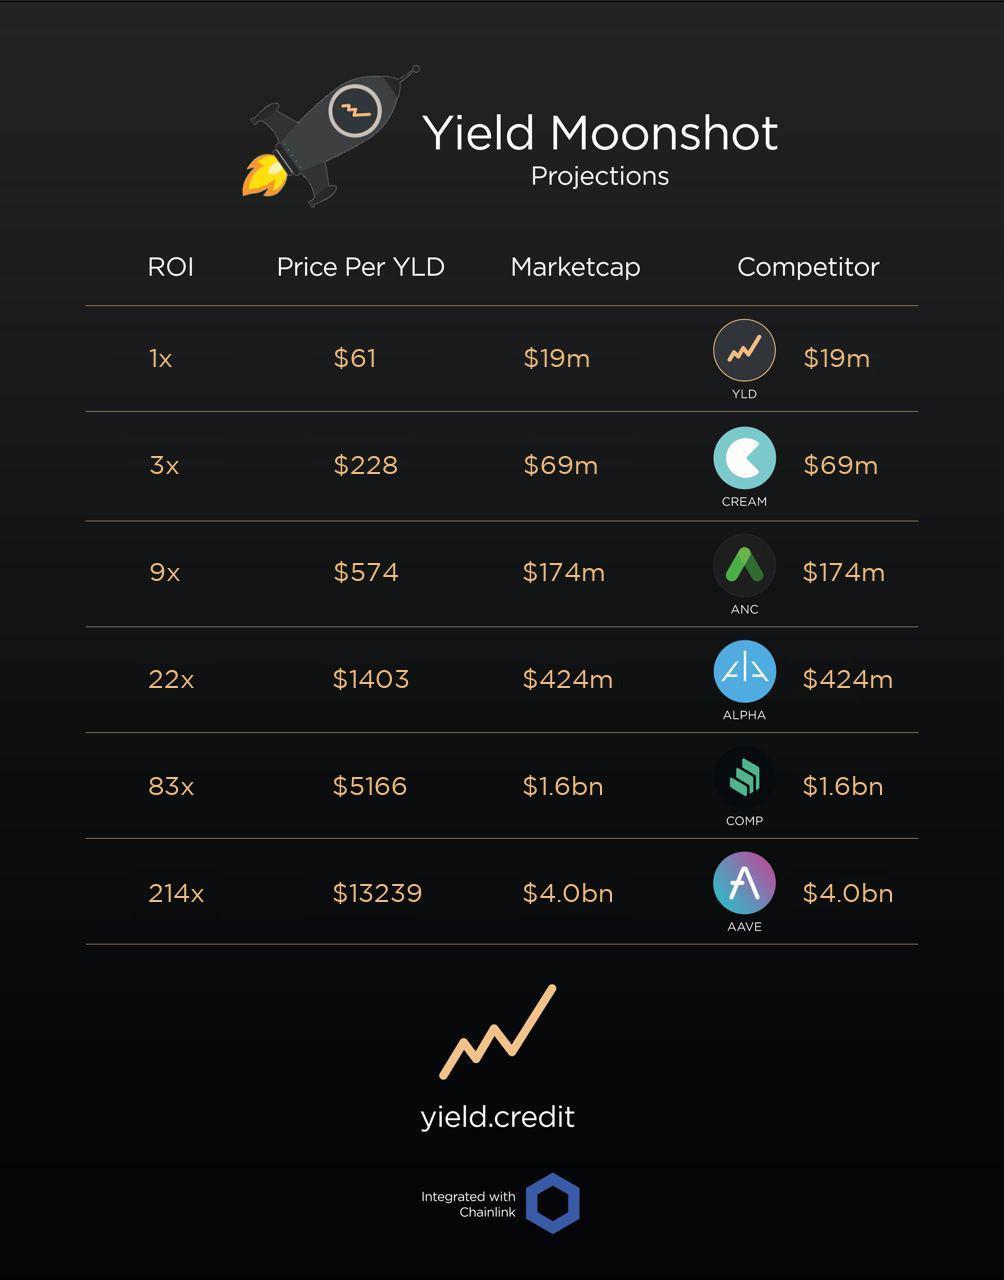
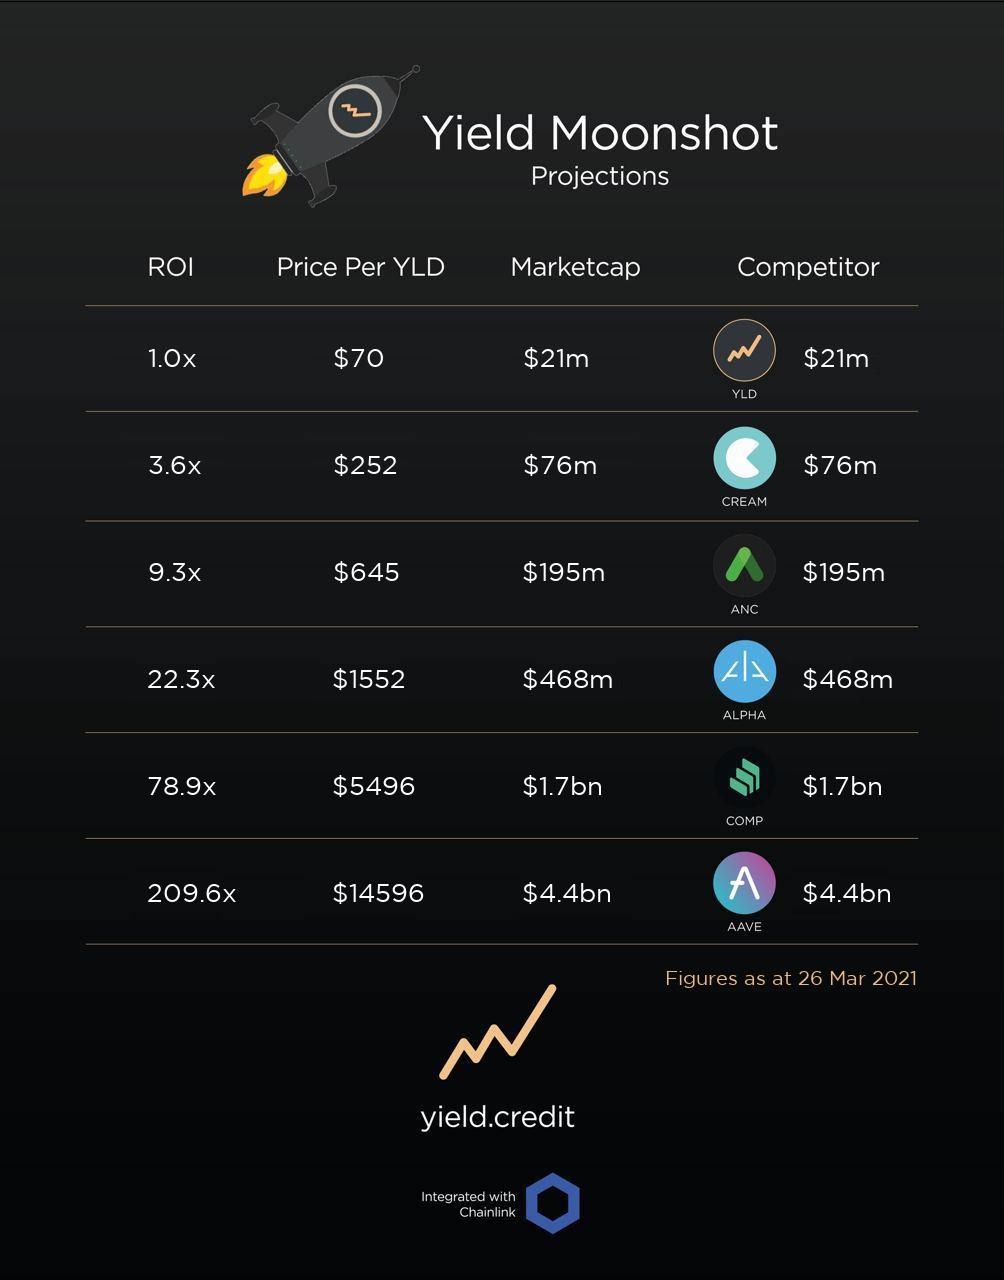
Removed an issue caused by flooring instead of rounding.

diff --git a/imageManipulation.py b/imageManipulation.py
@@ -115,84 +115,84 @@ def updatePic():
                     circSupply, font=myFont, fill=extrasDict[pic]['color'])
             img.save(pic)
 
-def draw_moon_pic():
+    def draw_moon_pic():
 
-        moon_metrics = get_moon_metrics()
+            moon_metrics = get_moon_metrics()
 
-        pic = 'YLD_Moon.jpg'
-        img = Image.open('TemplateYLD4.JPG')
+            pic = 'YLD_Moon.jpg'
+            img = Image.open('TemplateYLD4.JPG')
 
-        d1 = ImageDraw.Draw(img)
-        myFont = ImageFont.truetype('GothamBook.ttf', size=26)
+            d1 = ImageDraw.Draw(img)
+            myFont = ImageFont.truetype('GothamBook.ttf', size=26)
 
-        draw_order = ['yield', 'cream', 'anchor-protocol', 'alpha-finance', 'compound', 'aave']
-        yield_mc = moon_metrics['yield']['marketCap']
-        yield_price = moon_metrics['yield']['priceUSD']
+            draw_order = ['yield', 'cream', 'anchor-protocol', 'alpha-finance', 'compound', 'aave']
+            yield_mc = moon_metrics['yield']['marketCap']
+            yield_price = moon_metrics['yield']['priceUSD']
 
-        def parse_str(float_, roundTo=1):
-            '''
-            Parses float to str.
-            Conditionally appends nothing, 'k', 'm' or 'b'
-            '''
-            def round_or_not(float_, roundTo=roundTo):
-                if roundTo:
-                    return round(float_, roundTo)
+            def parse_str(float_, roundTo=1):
+                '''
+                Parses float to str.
+                Conditionally appends nothing, 'k', 'm' or 'b'
+                '''
+                def round_or_not(float_, roundTo=roundTo):
+                    if roundTo:
+                        return round(float_, roundTo)
+                    else:
+                        return float_
+
+                if float_ >= 1000000000:
+                    return str(round_or_not(float_/1000000000)) + 'bn'
+                if float_ >= 1000000:
+                    return str(round(float_/1000000)) + 'm'
                 else:
-                    return float_
+                    return str(round(float_))
 
-            if float_ >= 1000000000:
-                return str(round_or_not(float_/1000000000)) + 'bn'
-            if float_ >= 1000000:
-                return str(round(float_/1000000)) + 'm'
-            else:
-                return str(round(float_))
+            def draw_row(moon_metric, pos_y):
+                #gold = (237, 187, 130)
+                white = (255, 255, 255)
 
-        def draw_row(moon_metric, pos_y):
-            #gold = (237, 187, 130)
-            white = (255, 255, 255)
+                # Draw mc twice
+                mc = '$' + parse_str(moon_metric['marketCap'])
+                pos_x = 525 - (len(mc) / 2)
+                d1.text((pos_x, pos_y), mc, font=myFont, fill=white)
+                d1.text((pos_x + 280, pos_y), mc, font=myFont, fill=white)
 
-            # Draw mc twice
-            mc = '$' + parse_str(moon_metric['marketCap'])
-            pos_x = 525 - (len(mc) / 2)
-            d1.text((pos_x, pos_y), mc, font=myFont, fill=white)
-            d1.text((pos_x + 280, pos_y), mc, font=myFont, fill=white)
+                # Draw ROI
+                roi = str(round(moon_metric['marketCap'] / yield_mc, 1)) + 'x'
+                pos_x = 150 - (len(roi)/ 2)
+                d1.text((pos_x, pos_y), roi, font=myFont, fill=white)
 
-            # Draw ROI
-            roi = str(int(moon_metric['marketCap'] // yield_mc)) + 'x'
-            pos_x = 150 - (len(roi)/ 2)
-            d1.text((pos_x, pos_y), roi, font=myFont, fill=white)
-
-            # Draw YLD extrapolated price
-            multiplier = moon_metric['marketCap'] / yield_mc
-            yld_price = '$' + parse_str(floor(multiplier * yield_price))
-            pos_x = 335 - (len(yld_price)/ 2)
-            d1.text((pos_x, pos_y), yld_price, font=myFont, fill=white)
+                # Draw YLD extrapolated price
+                multiplier = moon_metric['marketCap'] / yield_mc
+                yld_price = '$' + parse_str(round(multiplier * yield_price))
+                pos_x = 335 - (len(yld_price)/ 2)
+                d1.text((pos_x, pos_y), yld_price, font=myFont, fill=white)
 
 
-        pos_y = 348
+            pos_y = 348
 
-        for token_str in draw_order:
-            metrics = moon_metrics[token_str]
+            for token_str in draw_order:
+                metrics = moon_metrics[token_str]
 
-            draw_row(metrics, pos_y)
+                draw_row(metrics, pos_y)
 
-            pos_y += 107
+                pos_y += 107
 
 
-        # Draw time last updated
-        pos = (665,970)
-        gold = (237, 187, 130)
+            # Draw time last updated
+            pos = (665,970)
+            gold = (237, 187, 130)
 
-        timeStamp = int(time.time())
-        parsedTs = datetime.utcfromtimestamp(timeStamp).strftime('%d %b %Y')
-        drawTime = 'Figures as at ' + str(parsedTs)
-        dateFont = ImageFont.truetype('GothamBook.ttf', size=20)
+            timeStamp = int(time.time())
+            parsedTs = datetime.utcfromtimestamp(timeStamp).strftime('%d %b %Y')
+            drawTime = 'Figures as at ' + str(parsedTs)
+            dateFont = ImageFont.truetype('GothamBook.ttf', size=20)
 
-        d1.text(pos, drawTime, font=dateFont, fill =gold)
+            d1.text(pos, drawTime, font=dateFont, fill =gold)
 
 
 
-        img.save(pic)
+            img.save(pic)
 
 
 
